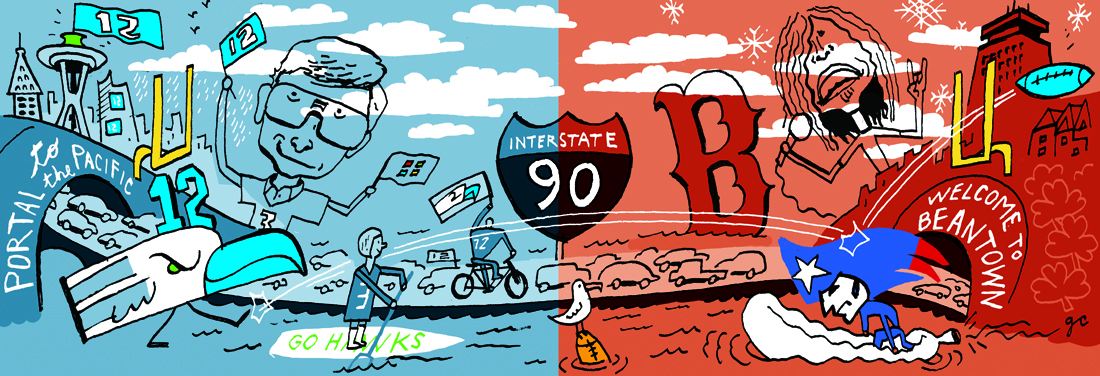
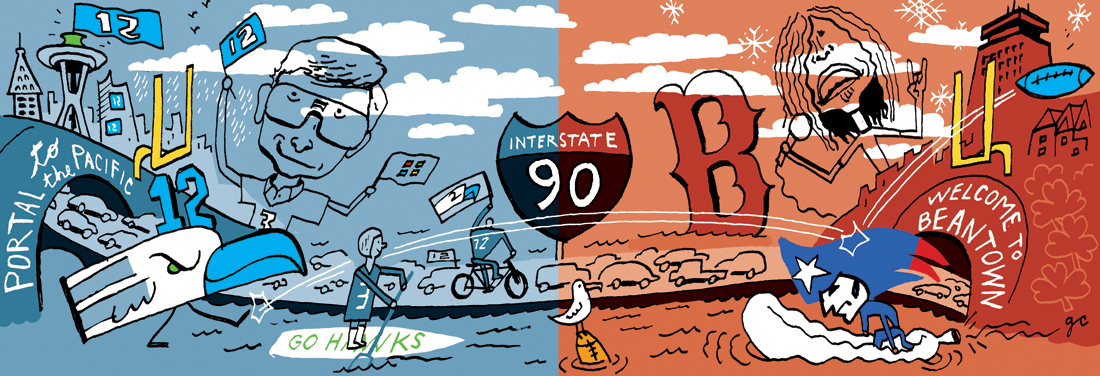
Save image as rgb, customize fb image

diff --git a/src/partials/_adHead.html b/src/partials/_adHead.html
@@ -4,7 +4,7 @@
 <!-- Social sharing meta -->
 <meta property="og:title" content="<%= grunt.data.json.project.title %>">
 <meta property="og:site_name" content="The Seattle Times">
-<meta property="og:image" content="http://seattletimes.com/art/ui/fb_icon_large.jpg">
+<meta property="og:image" content="http://projects.seattletimes.com/2015/seattle-boston-quiz/assets/seattlevsboston.jpg">
 <meta property="og:type" content="article">
 <meta property="og:url" content="<%= grunt.data.json.project.url %>">
 <meta property="og:description" content="<%= grunt.data.json.project.description %>">
